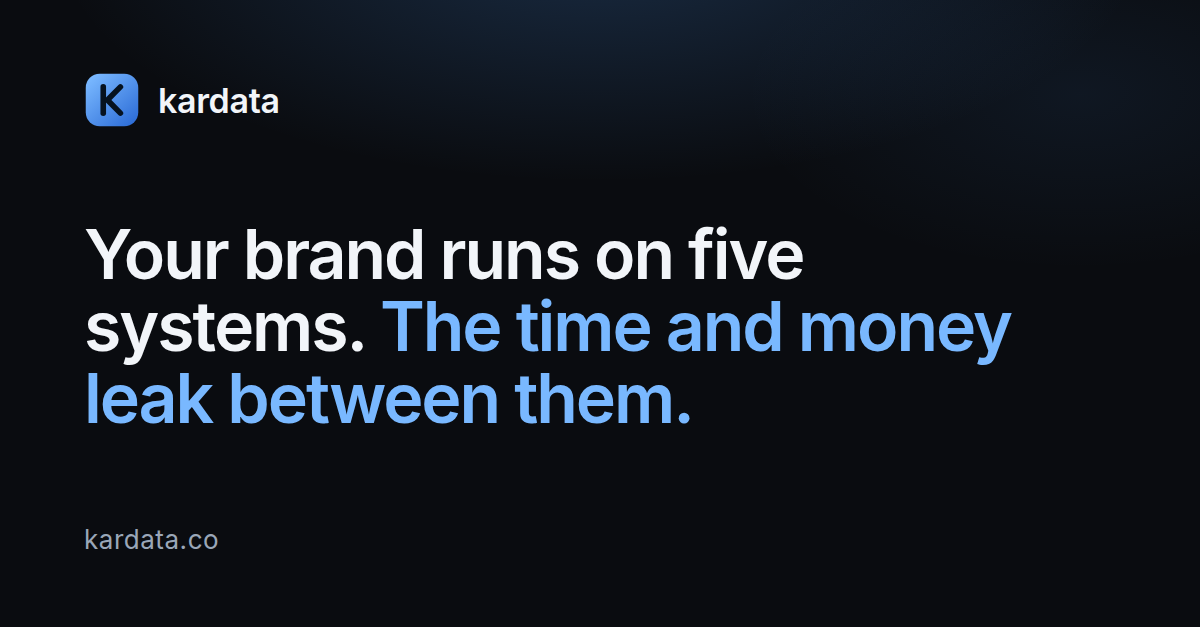
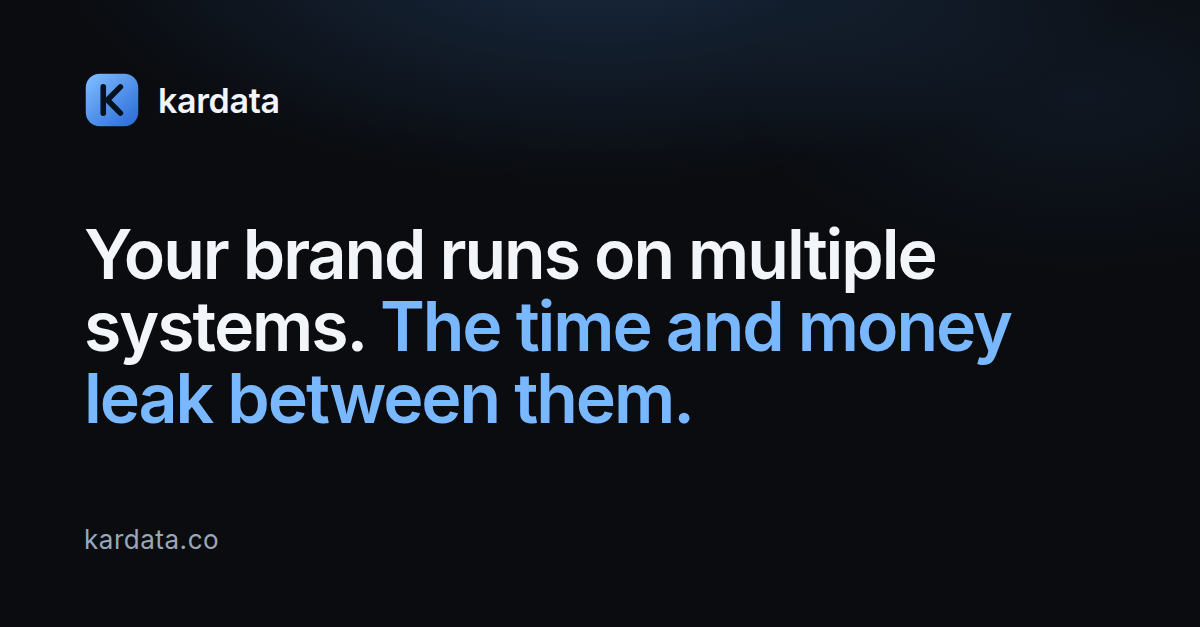
website: owner feedback: new photo, v1 founder card and about text, multiple systems, no placeholders

Changed region(s): [[0.555, 0.3636, 0.8017, 0.4545]]

diff --git a/website/frontend/tests/home-copy.test.ts b/website/frontend/tests/home-copy.test.ts
@@ -9,6 +9,13 @@ const mdPath = process.env.WEBSITE_MD ?? resolve(__dirname, "../../../docs/busin
 const htmlPath = resolve(__dirname, "../dist/index.html");
 const ready = existsSync(mdPath) && existsSync(htmlPath);
 
+// Changes the owner asked for in chat, until website.md is updated to match.
+const OWNER_CHANGES: Record<string, string> = {
+  // 2026-10-27: "why five? make it general like multiple"
+  "Your brand runs on five systems. The time and money leak between them.":
+    "Your brand runs on multiple systems. The time and money leak between them.",
+};
+
 describe("homeCopy", () => {
   it("extracts quoted lines and FAQ pairs", () => {
     const md = [
@@ -41,7 +48,7 @@ describe.skipIf(!ready)("built home page", () => {
     const { lines, faq } = homeCopy(readFileSync(mdPath, "utf8"));
     const text = htmlText(readFileSync(htmlPath, "utf8"));
     expect(lines.length).toBeGreaterThan(5);
-    for (const line of lines) expect(text).toContain(line);
+    for (const line of lines) expect(text).toContain(OWNER_CHANGES[line] ?? line);
     for (const { q, a } of faq) {
       expect(text).toContain(q);
       expect(text).toContain(a);

diff --git a/website/frontend/scripts/og-image.html b/website/frontend/scripts/og-image.html
@@ -31,7 +31,7 @@
     <svg width="56" height="56" viewBox="0 0 32 32" fill="none"><defs><linearGradient id="k" x1="4" y1="3" x2="28" y2="29" gradientUnits="userSpaceOnUse"><stop stop-color="#79b8ff"/><stop offset="1" stop-color="#2f6fd8"/></linearGradient></defs><rect x="1" y="1" width="30" height="30" rx="8" fill="url(#k)"/><path d="M11 8.5v15" stroke="#06121f" stroke-width="3.2" stroke-linecap="round"/><path d="M20.8 8.5 13.4 16l7.4 7.5" stroke="#06121f" stroke-width="3.2" stroke-linecap="round" stroke-linejoin="round"/></svg>
     kardata
   </div>
-  <h1>Your brand runs on five systems. <span class="grad">The time and money leak between them.</span></h1>
+  <h1>Your brand runs on multiple systems. <span class="grad">The time and money leak between them.</span></h1>
   <div class="url">kardata.co</div>
 </body>
 </html>

diff --git a/docs/reviews/website/site-1-review.md b/docs/reviews/website/site-1-review.md
@@ -39,20 +39,24 @@ Full run at the end: `npm run check`: astro check 0 errors, 8 pages, check-dist 
   notice, `/book`'s "Times show in your own time zone", the `/audit` framing sentences (from offer.md in "I" voice), and the
   privacy draft.
 
+## Owner feedback, 2026-10-27 (applied)
+
+- New photo (`~/Downloads/my_pics/karthik.png`): a face crop for the round avatar, the full portrait on `/about`.
+- Headline "five systems" → "multiple systems". `tests/home-copy.test.ts` holds this as an owner change
+  until website.md says the same.
+- v1's founder card is back (`src/components/FounderCard.astro`) with v1's own text. `/about` uses v1's "Who I am" text
+  and its four pillars.
+- No placeholders left except the empty blog. The audit page has no data-handling placeholder now. Privacy says Calendly,
+  no analytics, and "kept as long as needed, deleted on request" (my wording; please check).
+
 ## Open (owner)
 
-1. **Booking tool:** `/book` uses v1's Calendly `new-meeting` event, which is 30 minutes and has no intake questions.
-   Choose Cal.com or Calendly (plan, "Booking tool") and send a 20-minute event URL; it's one line in `src/config.ts`.
-   The embed and booking event are unverified, because the preview pane blocks third-party frames.
-2. **Analytics tool:** `track()` is a stub until you choose (Plausible or Umami Cloud recommended).
-3. **About text and photo** (placeholder). **Who's behind it** paragraph on home (placeholder).
-4. **Data handling on `/audit`** (storage, access, deletion) and the **privacy retention period**: not in
-   docs/business, so they're left as placeholders.
-5. **Copy flags (not rewritten):** home "fix the ones worth fixing" against D-53/D-58; content.md "No call to action"
+1. **Calendly event:** `/book` embeds `calendly.com/karthik-kardata/new-meeting`, which v1 called 30 minutes. Set it to
+   20 minutes and add website.md's questions (website, where you sell, optional note) in Calendly.
+2. **Analytics:** none on the site. Choosing one (Plausible or Umami Cloud) also means updating `/privacy`.
+3. **Copy flags (not rewritten):** home "fix the ones worth fixing" against D-53/D-58; content.md "No call to action"
    against website.md's post button; strategy.md "one case study live" against website.md "later".
-6. **Deploy A or B**, and whether any v1 `/p/...` prospect links still matter (they 404 after the switch).
-7. `website/README.md` here is your uncommitted copy from the stage-5.3 checkout plus my "Deploying" section. The
-   AGENTS.md "Website" section and `docs/business/website.md` are still uncommitted in that checkout.
+4. **Deploy A or B**, and whether any v1 `/p/...` links still matter. website.md needs the "multiple systems" edit.
 
 ## Blocked
 
